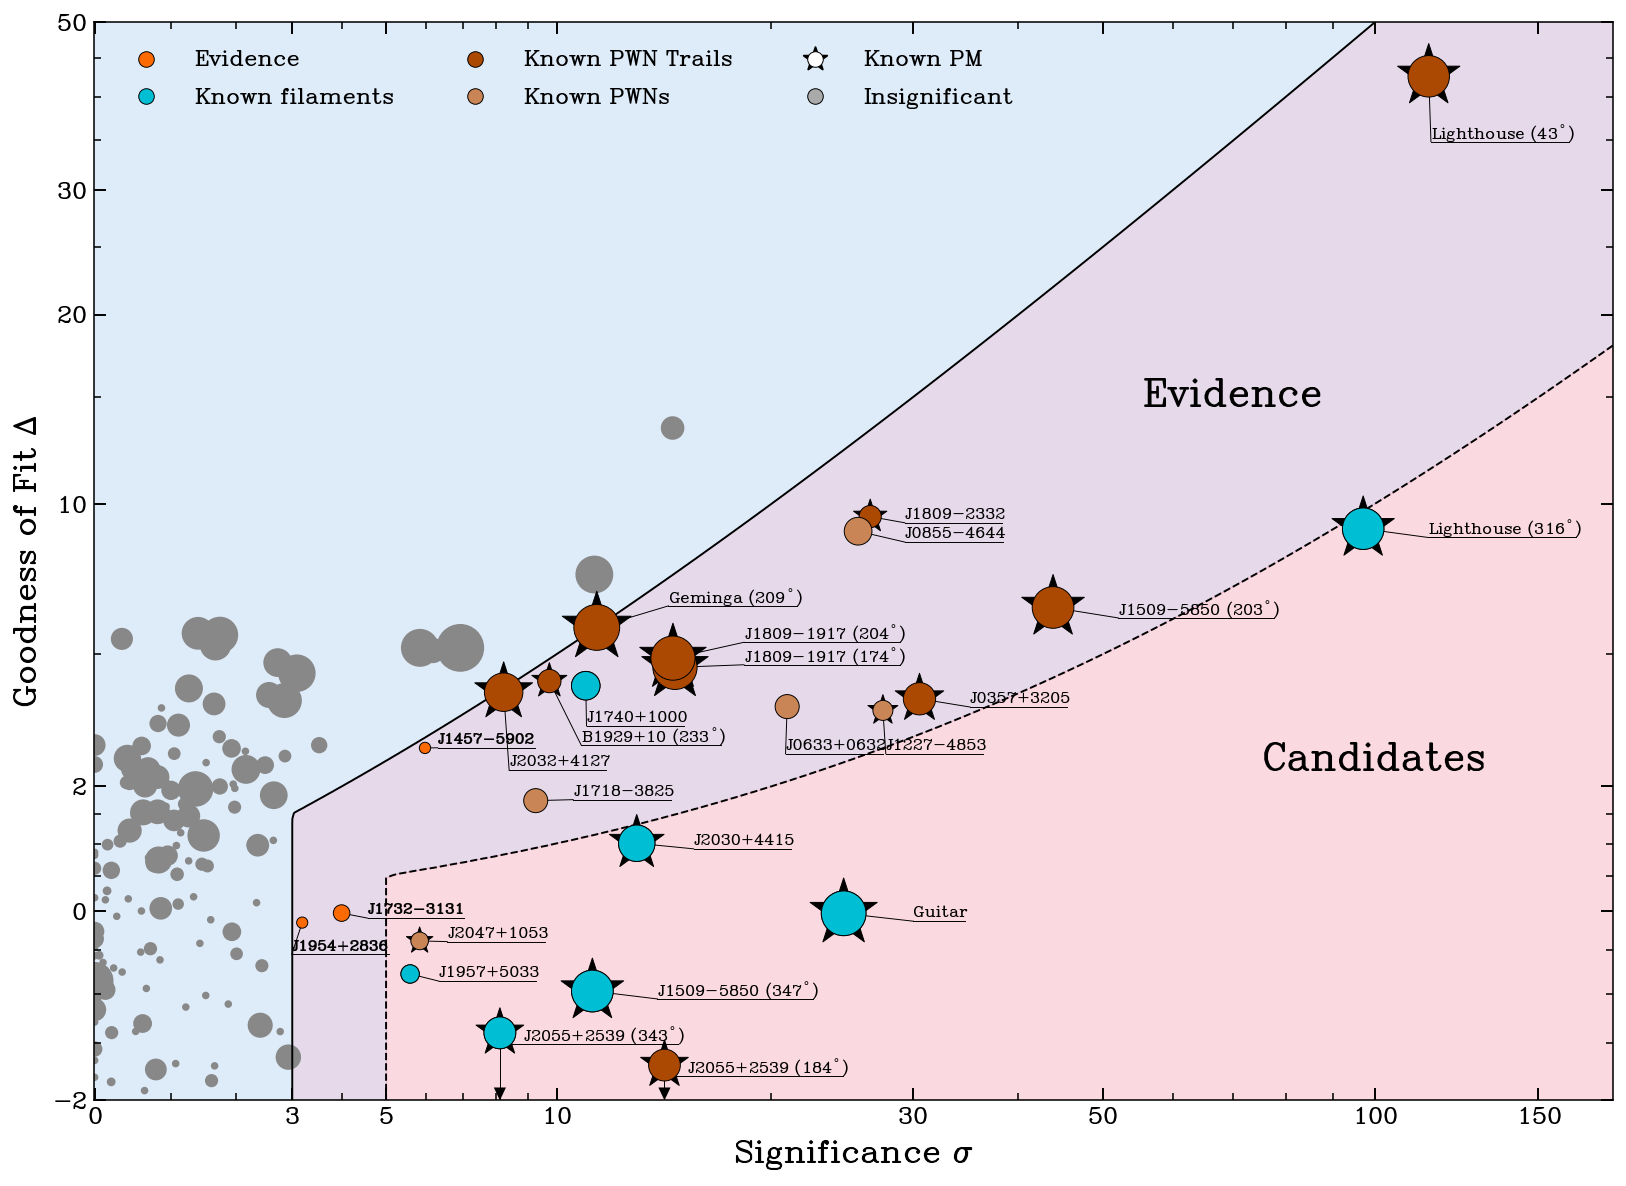
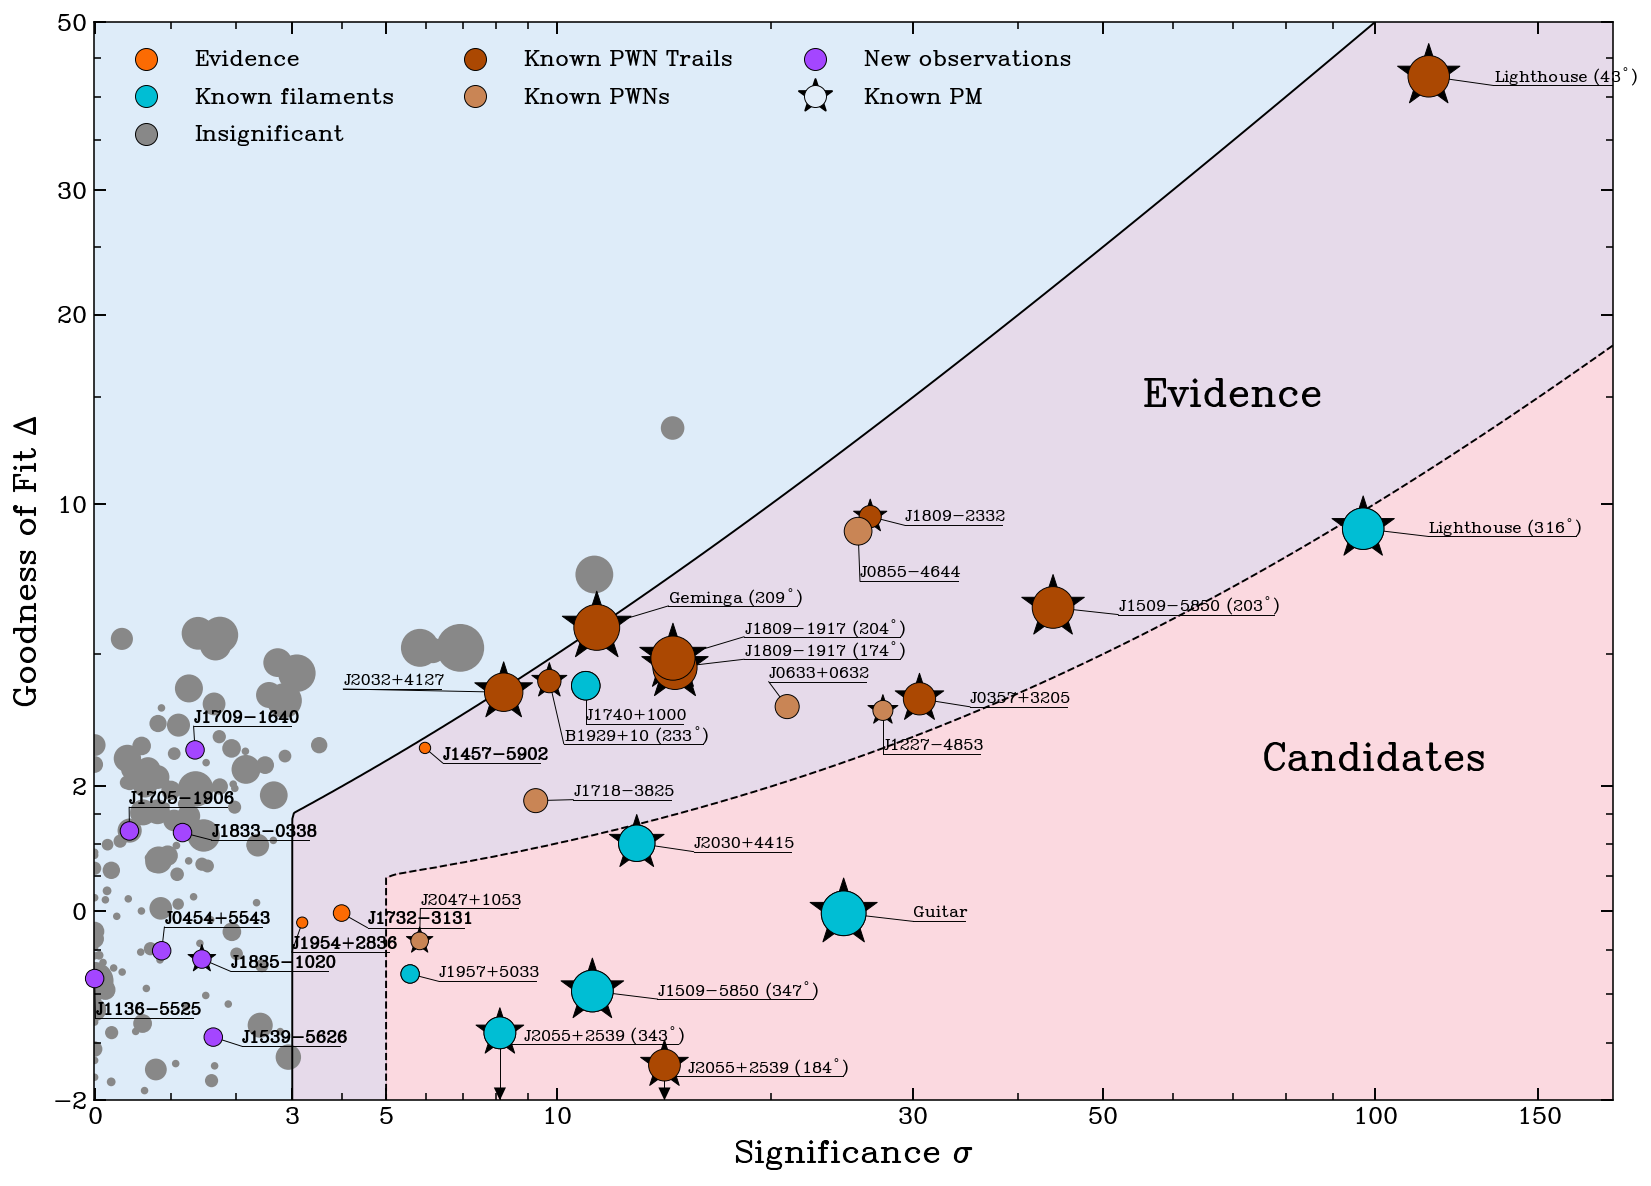
Added new search

diff --git a/filaments/filament.html b/filaments/filament.html
@@ -18,8 +18,8 @@
 "J1509-5850:(347$^\circ$)":	[0.3282,	0.1015,	2.1e+01],
 "J0357+3205":	[0.5436,	0.3726,	1.7e+01],
 "J1227-4853":	[0.5195,	0.3618,	1e+01],
-"J2055+2539:(184$^\circ$)":	[0.3757,	0.06268,	1.6e+01],
-"J2055+2539:(343$^\circ$)":	[0.2673,	0.0902,	1.6e+01],
+"J2055+2539:(184$^\circ$)":	[0.3757,	0.03277,	1.6e+01],
+"J2055+2539:(343$^\circ$)":	[0.2673,	0.06268,	1.6e+01],
 "J1809-2332":	[0.5111,	0.5416,	1.1e+01],
 "J0855-4644":	[0.5032,	0.528,	1.4e+01],
 "Guitar":	[0.4936,	0.1736,	2.3e+01],
@@ -75,6 +75,7 @@
 "B1055-52":	[0.08011,	0.4227,	1.5e+01],
 "B1717-29":	[0.07953,	0.03207,	2.9],
 "J1816+4510":	[0.07917,	0.3678,	1.1e+01],
+"J1539-5626":	[0.07865,	0.05873,	9.5],
 "J1302-3258":	[0.07751,	0.01834,	5.8],
 "J1911+1758":	[0.07696,	0.1676,	2.9],
 "J0101-6422":	[0.0748,	0.2175,	5.7],
@@ -83,9 +84,11 @@
 "J2256-1024":	[0.07265,	0.2402,	8.5],
 "B0656+14":	[0.0723,	0.2458,	1.6e+01],
 "J1514-4946":	[0.07117,	0.2191,	5.8],
+"J1835-1020":	[0.07114,	0.1311,	9.5],
 "J1753-1914":	[0.06983,	0.1457,	2.9],
 "J0538+2817":	[0.06863,	0.4333,	1.6e+01],
 "J0806-4123":	[0.06699,	0.2889,	1.7e+01],
+"J1709-1640":	[0.06664,	0.3252,	9.5],
 "J1210-6550":	[0.06569,	0.1889,	2.9],
 "J1905+0902":	[0.06484,	0.03277,	6.9],
 "J1744-1134":	[0.06261,	0.3822,	1.3e+01],
@@ -93,6 +96,7 @@
 "J1429-5911":	[0.06244,	0.2639,	1.1e+01],
 "J2235+1506":	[0.06057,	0.08661,	2.9],
 "J1103-5403":	[0.0597,	0.2749,	5.8],
+"J1833-0338":	[0.05839,	0.2485,	9.5],
 "J1819-1318":	[0.0572,	0.2483,	2.9],
 "B0906-49":	[0.05574,	0.3481,	1.1e+01],
 "J1810-1820":	[0.05554,	0.1821,	4.9],
@@ -107,6 +111,7 @@
 "J2307+2225":	[0.04804,	0.2942,	2.8],
 "B0138+59":	[0.04757,	0.2727,	2.9],
 "J1739-3951":	[0.0464,	0.03277,	3.5],
+"J0454+5543":	[0.04468,	0.1388,	9.5],
 "J1410-7404":	[0.04454,	0.3641,	2.9],
 "J0609+2130":	[0.04426,	0.2733,	3.5],
 "J1909-3744":	[0.04407,	0.1782,	1.1e+01],
@@ -134,6 +139,7 @@
 "J2048+2255":	[0.02467,	0.03277,	2.8],
 "J0734-1559":	[0.02362,	0.2953,	7.4],
 "J1640-4648":	[0.02359,	0.2503,	1.1e+01],
+"J1705-1906":	[0.02346,	0.25,	9.5],
 "B2016+28":	[0.02269,	0.187,	2.9],
 "J0420-5022":	[0.02212,	0.3172,	1.3e+01],
 "J1928+1746":	[0.02146,	0.2948,	5.8],
@@ -162,6 +168,7 @@
 "J1838+1650":	[0.0005541,	0.1615,	2.9],
 "J1739-3023":	[0.0005541,	0.04764,	7.0],
 "J0847-4316":	[0.0005541,	0.1002,	6.1],
+"J1136-5525":	[0.0005541,	0.1131,	9.5],
 "J0108-1431":	[0.0005541,	0.3296,	1e+01],
 "J1333-4449":	[0.0005541,	0.09661,	2.9],
 "B1133-55":	[0.0005541,	0.1007,	9.4],
